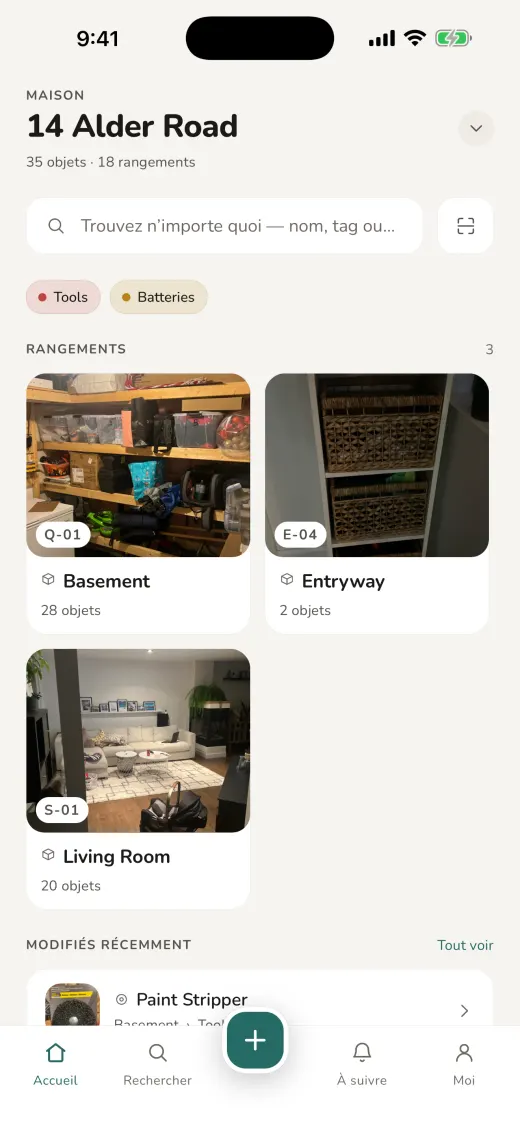
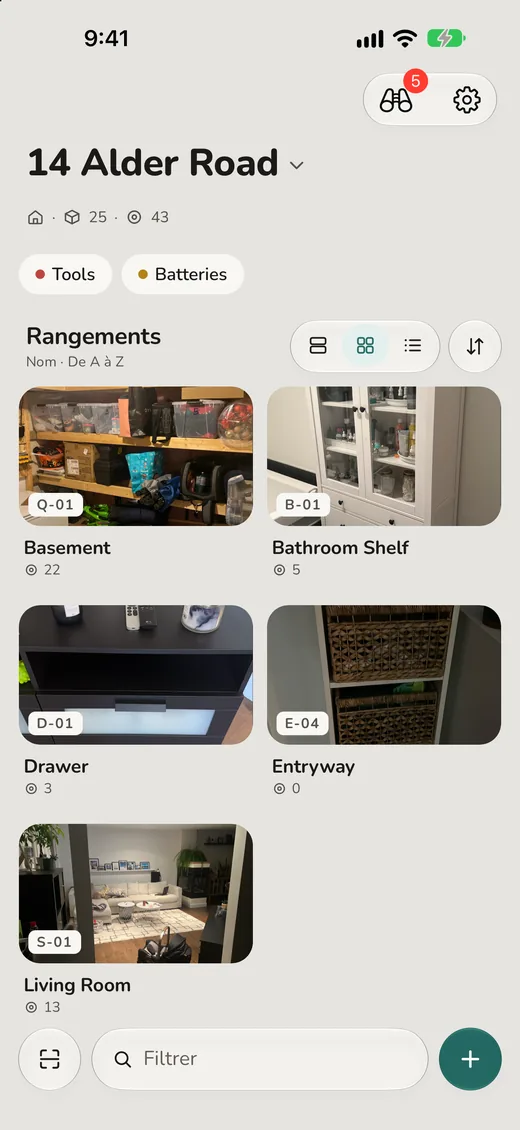
Show Cataloc's redesign in the screenshot strip, with iPhone Duo
The strip on the EN, PT and FR pages now shows the redesigned app in each
page's own language: Home, a place, nesting, marking a shelf, a thing's
page, search, Watch, the label, the insurance report and Settings, plus
the open iPhone Duo in Apple's own bezel. The report's PDF page stays.

diff --git a/public/cataloc/accueil/index.html b/public/cataloc/accueil/index.html
@@ -21,7 +21,7 @@
 <link rel="icon" href="/cataloc/icon.png">
 <link rel="preconnect" href="https://fonts.gstatic.com" crossorigin>
 <link rel="stylesheet" href="https://fonts.googleapis.com/css2?family=Nunito:wght@700;800&family=IBM+Plex+Sans:wght@400;500&display=swap">
-<link rel="stylesheet" href="/cataloc/styles.css?v=4">
+<link rel="stylesheet" href="/cataloc/styles.css?v=5">
 <script src="/cataloc/theme.js?v=4"></script>
 </head>
 <body>
@@ -65,19 +65,19 @@
   <section>
     <h2>Un aperçu</h2>
     <ul class="shots">
-      <li><a class="zoom" href="/cataloc/screens/fr/full/01-home.webp"><img src="/cataloc/screens/fr/01-home.webp" width="520" height="1130" loading="lazy" alt="L'accueil du foyer 14 Alder Road : une barre de recherche, des étiquettes, et une grille d'emplacements, chacun avec sa photo et un code court comme Q-01."></a><p><b>Votre maison d'un coup d'œil.</b> Chaque pièce en photo, chaque emplacement avec un code que vous pouvez écrire dessus.</p></li>
-      <li><a class="zoom" href="/cataloc/screens/fr/full/05-search.webp"><img src="/cataloc/screens/fr/05-search.webp" width="520" height="1130" loading="lazy" alt="Une recherche de « st » qui renvoie six objets, chacun avec le chemin complet vers l'endroit où il est rangé."></a><p><b>Tapez trois lettres</b> et vous savez où c'est, pas seulement que ça existe.</p></li>
-      <li><a class="zoom" href="/cataloc/screens/en/full/13-details.webp"><img src="/cataloc/screens/en/13-details.webp" width="520" height="1130" loading="lazy" alt="L'objet Drill Driver : photo marquée « Prise le 5 sept. 2026 », quantité, étiquettes, emplacement, date d'expiration et détails pour l'assurance — valeur 129 $ US, achetée le 14 mars 2024, DeWalt DCD777, numéro de série et photo du reçu. Capture en anglais."></a><p><b>Chaque chose a sa page :</b> une photo, une quantité, des étiquettes, un emplacement, et la valeur, le reçu et le numéro de série qu'une réclamation demande.</p></li>
-      <li><a class="zoom" href="/cataloc/screens/en/full/11-mark.webp"><img src="/cataloc/screens/en/11-mark.webp" width="520" height="1130" loading="lazy" alt="Une seule photo d'une étagère au sous-sol avec sept cadres numérotés tracés autour des objets, et la bande des sept recadrages en dessous. Capture en anglais."></a><p><b>Une tablette en une photo.</b> Touchez chaque chose, et chaque cadre devient sa propre fiche, avec son propre recadrage.</p></li>
-      <li><a class="zoom" href="/cataloc/screens/en/full/12-mark-names.webp"><img src="/cataloc/screens/en/12-mark-names.webp" width="520" height="1130" loading="lazy" alt="Nommer les sept choses marquées, chacune avec un choix Objet ou Contenant, et un bouton « Ajouter 7 ». Capture en anglais."></a><p><b>Les bacs et ce qui est à côté,</b> à partir d'une seule photo. Vous tracez les cadres; nommez chacun vous-même, ou touchez l'étincelle pour une suggestion calculée sur votre téléphone.</p></li>
-      <li><a class="zoom" href="/cataloc/screens/fr/full/06-watch.webp"><img src="/cataloc/screens/fr/06-watch.webp" width="520" height="1130" loading="lazy" alt="L'onglet À surveiller : un prêt en retard, quatre choses qui expirent bientôt, les prêts avec l'emprunteur et la date de retour."></a><p><b>Un seul onglet</b> pour ce qui est prêté et ce qui va bientôt expirer.</p></li>
-      <li><a class="zoom" href="/cataloc/screens/en/full/16-reminders.webp"><img src="/cataloc/screens/en/16-reminders.webp" width="520" height="1130" loading="lazy" alt="Réglages des notifications : prêts à rendre, la veille, et dates d'expiration, sept jours avant, chacun avec un délai réglable. Capture en anglais."></a><p><b>Un rappel la veille</b> du retour de la perceuse, ou une semaine avant que les piles expirent. Désactivé à moins que vous le vouliez.</p></li>
-      <li><a class="zoom" href="/cataloc/screens/en/full/14-report.webp"><img src="/cataloc/screens/en/14-report.webp" width="520" height="1130" loading="lazy" alt="Le rapport d'assurance : 35 choses d'une valeur de 1 328,88 $ US, des jauges pour celles qui ont une photo, une photo datée, une valeur et un reçu, et la liste de celles sans valeur. Capture en anglais."></a><p><b>Voyez où vous en êtes</b> avant d'en avoir besoin : ce qui est photographié, daté et chiffré, et ce qui ne l'est pas encore.</p></li>
+      <li><a class="zoom" href="/cataloc/screens/fr/full/01-home.webp"><img src="/cataloc/screens/fr/01-home.webp" width="520" height="1130" loading="lazy" alt="L&#x27;accueil du foyer 14 Alder Road : les étiquettes, le choix d&#x27;affichage et une grille d&#x27;emplacements, chacun avec sa photo et un code court comme Q-01, avec À suivre et Réglages dans le coin."></a><p><b>Votre maison d'un coup d'œil.</b> Chaque pièce en photo, chaque emplacement avec un code que l'on peut écrire dessus.</p></li>
+      <li><a class="zoom" href="/cataloc/screens/fr/full/02-place.webp"><img src="/cataloc/screens/fr/02-place.webp" width="520" height="1130" loading="lazy" alt="Le Tool Panel : sa photo, le chemin 14 Alder Road › Basement, le code Q-04 et les treize outils qu&#x27;il porte."></a><p><b>Photographiez une tablette,</b> puis nommez ce qu'il y a dessus. Chaque emplacement montre ce qu'il contient.</p></li>
+      <li><a class="zoom" href="/cataloc/screens/fr/full/03-nesting.webp"><img src="/cataloc/screens/fr/03-nesting.webp" width="520" height="1130" loading="lazy" alt="Transparent Box 1, dans Shelf, dans Basement : le fil d&#x27;Ariane montre chaque étape, au-dessus de son contenu de six objets."></a><p><b>Une boîte dans un bac sur une tablette,</b> aussi profond que la réalité. Le fil d'Ariane garde l'adresse complète.</p></li>
+      <li><a class="zoom" href="/cataloc/screens/fr/full/04-mark.webp"><img src="/cataloc/screens/fr/04-mark.webp" width="520" height="1130" loading="lazy" alt="Une seule photo du panneau à outils avec onze cadres numérotés tracés autour des objets, la perceuse sélectionnée et son recadrage en dessous."></a><p><b>Une tablette en une photo.</b> Touchez chaque chose et chaque cadre devient une entrée avec son propre recadrage. Nommez-les vous-même, ou touchez l'étincelle pour une suggestion calculée sur votre téléphone.</p></li>
+      <li><a class="zoom" href="/cataloc/screens/fr/full/05-item.webp"><img src="/cataloc/screens/fr/05-item.webp" width="520" height="1130" loading="lazy" alt="Le Drill Driver : photo datée, étiquettes, emplacement, quantité, date d&#x27;expiration et Plus de détails avec 129,00 $ US et un reçu."></a><p><b>Chaque chose a sa page :</b> une photo, une quantité, des étiquettes, un emplacement, et la valeur, le reçu et le numéro de série qu'une réclamation demande.</p></li>
+      <li class="device"><a class="zoom" href="/cataloc/screens/fr/full/duo-home.webp"><img src="/cataloc/screens/fr/duo-home.webp" width="880" height="639" loading="lazy" alt="iPhone Duo ouvert : l&#x27;accueil du foyer 14 Alder Road sur l&#x27;écran intérieur, avec Rechercher, Scanner, Ajouter, À suivre et Réglages dans la barre du système, sur le côté."></a><p><b>Sur iPhone Duo,</b> les barres se placent sur le côté et les emplacements occupent tout l'écran.</p></li>
+      <li class="device"><a class="zoom" href="/cataloc/screens/fr/full/duo-item.webp"><img src="/cataloc/screens/fr/duo-item.webp" width="880" height="639" loading="lazy" alt="iPhone Duo ouvert : la photo du Drill Driver à côté de ses détails, assurance comprise."></a><p><b>Ouvrez le Duo</b> et la photo de chaque chose s'affiche à côté de sa page.</p></li>
+      <li><a class="zoom" href="/cataloc/screens/fr/full/06-search.webp"><img src="/cataloc/screens/fr/06-search.webp" width="520" height="1130" loading="lazy" alt="L&#x27;accueil filtré par « batt » : les trois emplacements qui contiennent des piles, puis dix résultats, chacun avec le chemin complet vers l&#x27;endroit où il est rangé."></a><p><b>Tapez quatre lettres</b> et vous savez où c'est, pas seulement que ça existe.</p></li>
+      <li><a class="zoom" href="/cataloc/screens/fr/full/07-watch.webp"><img src="/cataloc/screens/fr/07-watch.webp" width="520" height="1130" loading="lazy" alt="À suivre : un prêt en retard et quatre choses qui expirent bientôt, chaque prêt avec son emprunteur et sa date de retour."></a><p><b>Un seul écran,</b> à une touche de l'accueil, pour ce qui est prêté et ce qui va bientôt expirer. Les rappels, si vous en voulez, sont dans Réglages.</p></li>
+      <li><a class="zoom" href="/cataloc/screens/fr/full/08-label.webp"><img src="/cataloc/screens/fr/08-label.webp" width="520" height="1130" loading="lazy" alt="L&#x27;aperçu d&#x27;une étiquette avec un code QR, le code court Q-04 et le chemin du contenant, avec ce qui figure sur l&#x27;étiquette et sa taille."></a><p><b>Imprimez une étiquette.</b> Balayez-la pour ouvrir la boîte, ou tapez le code si l'appareil photo n'y arrive pas.</p></li>
+      <li><a class="zoom" href="/cataloc/screens/fr/full/09-report.webp"><img src="/cataloc/screens/fr/09-report.webp" width="520" height="1130" loading="lazy" alt="Le rapport d&#x27;assurance : 43 choses d&#x27;une valeur de 1 328,88 $ US, des jauges pour celles qui ont une photo, une photo datée, une valeur et un reçu, et celles qui n&#x27;ont pas encore de valeur."></a><p><b>Voyez où vous en êtes</b> avant d'en avoir besoin : ce qui est photographié, daté et chiffré, et ce qui ne l'est pas encore.</p></li>
       <li class="page"><a class="zoom" href="/cataloc/screens/en/full/15-report-page.webp"><img src="/cataloc/screens/en/15-report-page.webp" width="640" height="828" loading="lazy" alt="La première page du rapport d'assurance en PDF : un inventaire aux lignes numérotées, avec photos, valeurs et sous-totaux par pièce. Capture en anglais."></a><p><b>Un seul PDF qu'un assureur peut lire</b> sans l'application. Imprimez-le, envoyez-le, rangez-le avec votre police.</p></li>
-      <li><a class="zoom" href="/cataloc/screens/fr/full/07-label.webp"><img src="/cataloc/screens/fr/07-label.webp" width="520" height="1130" loading="lazy" alt="L'aperçu d'une étiquette avec un code QR, le code court Q-04 et le chemin du contenant, avec les options de taille et d'impression."></a><p><b>Imprimez une étiquette.</b> Balayez-la pour ouvrir la boîte, ou tapez le code si l'appareil photo n'y arrive pas.</p></li>
-      <li><a class="zoom" href="/cataloc/screens/en/full/17-change-type.webp"><img src="/cataloc/screens/en/17-change-type.webp" width="520" height="1130" loading="lazy" alt="Le menu d'options de Drill Driver : Renommer, Changer la photo, Modifier les étiquettes, Déplacer, Transformer en contenant, Copier le chemin, Supprimer. Capture en anglais."></a><p><b>Le coffre à outils contient des choses, finalement?</b> Faites-en un contenant. Photo, étiquettes, historique et étiquette imprimée restent.</p></li>
-      <li><a class="zoom" href="/cataloc/screens/fr/full/08-me.webp"><img src="/cataloc/screens/fr/08-me.webp" width="520" height="1130" loading="lazy" alt="L'onglet Moi : la jauge du forfait, où vivent vos données, la synchronisation et les foyers."></a><p><b>Aucun compte.</b> Tout est sur ce téléphone.</p></li>
-      <li><a class="zoom" href="/cataloc/screens/fr/full/09-assistant.webp"><img src="/cataloc/screens/fr/09-assistant.webp" width="520" height="1130" loading="lazy" alt="Réglages de l'assistant : Trouver mes affaires, Le laisser ajouter des choses, et Tout retirer de la recherche."></a><p><b>Demandez à Siri ou à Spotlight.</b> Désactivé tant que vous n'avez pas dit oui.</p></li>
+      <li><a class="zoom" href="/cataloc/screens/fr/full/10-settings.webp"><img src="/cataloc/screens/fr/10-settings.webp" width="520" height="1130" loading="lazy" alt="Réglages : la formule gratuite à 68 objets sur 200, notifications, assistant, apparence, langue, dossier partagé, stockage et sauvegarde."></a><p><b>Aucun compte.</b> Tout est sur ce téléphone, et Réglages montre où.</p></li>
     </ul>
   </section>
 

diff --git a/public/cataloc/pt/index.html b/public/cataloc/pt/index.html
@@ -21,7 +21,7 @@
 <link rel="icon" href="/cataloc/icon.png">
 <link rel="preconnect" href="https://fonts.gstatic.com" crossorigin>
 <link rel="stylesheet" href="https://fonts.googleapis.com/css2?family=Nunito:wght@700;800&family=IBM+Plex+Sans:wght@400;500&display=swap">
-<link rel="stylesheet" href="/cataloc/styles.css?v=4">
+<link rel="stylesheet" href="/cataloc/styles.css?v=5">
 <script src="/cataloc/theme.js?v=4"></script>
 </head>
 <body>
@@ -64,19 +64,19 @@
   <section>
     <h2>Uma volta pelo app</h2>
     <ul class="shots">
-      <li><a class="zoom" href="/cataloc/screens/pt/full/01-home.webp"><img src="/cataloc/screens/pt/01-home.webp" width="520" height="1130" loading="lazy" alt="O início da casa 14 Alder Road: uma barra de busca, tags e uma grade de lugares, cada um com foto e um código curto como Q-01."></a><p><b>Sua casa de relance.</b> Cada cômodo em foto, cada lugar com um código que dá para escrever nele.</p></li>
-      <li><a class="zoom" href="/cataloc/screens/pt/full/05-search.webp"><img src="/cataloc/screens/pt/05-search.webp" width="520" height="1130" loading="lazy" alt="Uma busca por “st” que traz seis itens, cada um com o caminho completo até onde está guardado."></a><p><b>Digite três letras</b> e você descobre onde está, não só que existe.</p></li>
-      <li><a class="zoom" href="/cataloc/screens/en/full/13-details.webp"><img src="/cataloc/screens/en/13-details.webp" width="520" height="1130" loading="lazy" alt="O item Drill Driver: foto marcada “tirada em 5 set. 2026”, quantidade, tags, lugar, data de validade e dados para o seguro — valor US$ 129, comprada em 14 mar. 2024, DeWalt DCD777, número de série e foto da nota fiscal. Tela em inglês."></a><p><b>Toda coisa tem a própria página:</b> foto, quantidade, tags, lugar, e o valor, a nota fiscal e o número de série que o seguro pede.</p></li>
-      <li><a class="zoom" href="/cataloc/screens/en/full/11-mark.webp"><img src="/cataloc/screens/en/11-mark.webp" width="520" height="1130" loading="lazy" alt="Uma única foto de uma estante no porão com sete quadrados numerados em volta das coisas, e a fileira dos sete recortes embaixo. Tela em inglês."></a><p><b>Uma prateleira em uma foto.</b> Toque em cada coisa, e cada quadrado vira um registro com o próprio recorte.</p></li>
-      <li><a class="zoom" href="/cataloc/screens/en/full/12-mark-names.webp"><img src="/cataloc/screens/en/12-mark-names.webp" width="520" height="1130" loading="lazy" alt="Dando nome às sete coisas marcadas, cada uma com a escolha entre item e lugar, e um botão “Adicionar 7”. Tela em inglês."></a><p><b>As caixas e o que está do lado delas,</b> a partir de uma foto só. Você marca os quadrados; dê o nome você mesmo, ou toque na estrelinha para uma sugestão feita no seu celular.</p></li>
-      <li><a class="zoom" href="/cataloc/screens/pt/full/06-watch.webp"><img src="/cataloc/screens/pt/06-watch.webp" width="520" height="1130" loading="lazy" alt="A aba De olho: um empréstimo atrasado, quatro coisas vencendo, empréstimos com quem pegou e a data de devolução."></a><p><b>Uma aba só</b> para o que está emprestado e o que está para vencer.</p></li>
-      <li><a class="zoom" href="/cataloc/screens/en/full/16-reminders.webp"><img src="/cataloc/screens/en/16-reminders.webp" width="520" height="1130" loading="lazy" alt="Ajustes de notificações: empréstimos a vencer, um dia antes, e datas de validade, sete dias antes, cada um com a antecedência ajustável. Tela em inglês."></a><p><b>Um aviso na véspera</b> de a furadeira voltar, ou uma semana antes de as pilhas vencerem. Desligado, a não ser que você queira.</p></li>
-      <li><a class="zoom" href="/cataloc/screens/en/full/14-report.webp"><img src="/cataloc/screens/en/14-report.webp" width="520" height="1130" loading="lazy" alt="O relatório para o seguro: 35 coisas somando US$ 1.328,88, medidores de quantas têm foto, foto com data, valor e nota fiscal, e a lista das que estão sem valor. Tela em inglês."></a><p><b>Veja o quanto você está pronto</b> antes de precisar: o que tem foto, data e preço, e o que ainda não tem.</p></li>
+      <li><a class="zoom" href="/cataloc/screens/pt/full/01-home.webp"><img src="/cataloc/screens/pt/01-home.webp" width="520" height="1130" loading="lazy" alt="O início da casa 14 Alder Road: tags, a troca de visualização e uma grade de lugares, cada um com foto e um código curto como Q-01, com De olho e Ajustes no canto."></a><p><b>Sua casa de relance.</b> Cada cômodo em foto, cada lugar com um código que dá para escrever nele.</p></li>
+      <li><a class="zoom" href="/cataloc/screens/pt/full/02-place.webp"><img src="/cataloc/screens/pt/02-place.webp" width="520" height="1130" loading="lazy" alt="O Tool Panel: a foto, o caminho 14 Alder Road › Basement, o código Q-04 e as treze ferramentas nele."></a><p><b>Fotografe a prateleira</b> e dê nome ao que está nela. Cada lugar mostra o que guarda.</p></li>
+      <li><a class="zoom" href="/cataloc/screens/pt/full/03-nesting.webp"><img src="/cataloc/screens/pt/03-nesting.webp" width="520" height="1130" loading="lazy" alt="Transparent Box 1, dentro de Shelf, dentro de Basement: o caminho mostra cada passo, acima dos seis itens dentro."></a><p><b>Uma caixa num caixote numa prateleira,</b> sem limite de profundidade. O caminho guarda o endereço inteiro.</p></li>
+      <li><a class="zoom" href="/cataloc/screens/pt/full/04-mark.webp"><img src="/cataloc/screens/pt/04-mark.webp" width="520" height="1130" loading="lazy" alt="Uma foto do painel de ferramentas com onze quadrados numerados em volta das coisas, a furadeira selecionada e o recorte dela embaixo."></a><p><b>Uma prateleira em uma foto.</b> Toque em cada coisa e cada quadrado vira um registro com o próprio recorte. Dê o nome você mesmo, ou toque no brilho para uma sugestão feita no seu celular.</p></li>
+      <li><a class="zoom" href="/cataloc/screens/pt/full/05-item.webp"><img src="/cataloc/screens/pt/05-item.webp" width="520" height="1130" loading="lazy" alt="O Drill Driver: foto marcada com a data, tags, onde está, quantidade, validade e Mais detalhes com US$ 129,00 e a nota fiscal."></a><p><b>Cada coisa tem a própria página:</b> foto, quantidade, tags, lugar, e o valor, a nota e o número de série que o seguro pede.</p></li>
+      <li class="device"><a class="zoom" href="/cataloc/screens/pt/full/duo-home.webp"><img src="/cataloc/screens/pt/duo-home.webp" width="880" height="639" loading="lazy" alt="iPhone Duo aberto: o início da casa 14 Alder Road na tela interna, com Buscar, Escanear, Adicionar, De olho e Ajustes na barra do sistema, na lateral."></a><p><b>No iPhone Duo,</b> as barras ficam na lateral e os lugares ocupam a tela inteira.</p></li>
+      <li class="device"><a class="zoom" href="/cataloc/screens/pt/full/duo-item.webp"><img src="/cataloc/screens/pt/duo-item.webp" width="880" height="639" loading="lazy" alt="iPhone Duo aberto: a foto do Drill Driver ao lado dos detalhes, com os dados do seguro."></a><p><b>Abra o Duo</b> e a foto de cada coisa fica ao lado da página dela.</p></li>
+      <li><a class="zoom" href="/cataloc/screens/pt/full/06-search.webp"><img src="/cataloc/screens/pt/06-search.webp" width="520" height="1130" loading="lazy" alt="O início filtrado por “batt”: os três lugares com pilhas e dez resultados, cada um com o caminho completo até onde está guardado."></a><p><b>Digite quatro letras</b> e você descobre onde está, não só que existe.</p></li>
+      <li><a class="zoom" href="/cataloc/screens/pt/full/07-watch.webp"><img src="/cataloc/screens/pt/07-watch.webp" width="520" height="1130" loading="lazy" alt="De olho: um empréstimo atrasado e quatro coisas vencendo, cada empréstimo com quem pegou e a data de devolução."></a><p><b>Uma tela só,</b> a um toque do início, para o que está emprestado e o que está para vencer. Lembretes, se quiser, ficam em Ajustes.</p></li>
+      <li><a class="zoom" href="/cataloc/screens/pt/full/08-label.webp"><img src="/cataloc/screens/pt/08-label.webp" width="520" height="1130" loading="lazy" alt="A prévia de uma etiqueta com QR, o código curto Q-04 e o caminho do lugar, com o que vai na etiqueta e o tamanho."></a><p><b>Imprima uma etiqueta.</b> Leia o QR para abrir a caixa, ou digite o código se a câmera não conseguir.</p></li>
+      <li><a class="zoom" href="/cataloc/screens/pt/full/09-report.webp"><img src="/cataloc/screens/pt/09-report.webp" width="520" height="1130" loading="lazy" alt="O relatório para o seguro: 43 coisas somando US$ 1.328,88, medidores de quantas têm foto, foto com data, valor e nota fiscal, e as que ainda estão sem valor."></a><p><b>Veja o quanto você está pronto</b> antes de precisar: o que tem foto, data e valor, e o que ainda não tem.</p></li>
       <li class="page"><a class="zoom" href="/cataloc/screens/en/full/15-report-page.webp"><img src="/cataloc/screens/en/15-report-page.webp" width="640" height="828" loading="lazy" alt="A primeira página do relatório para o seguro em PDF: um inventário com linhas numeradas, fotos, valores e subtotais por cômodo. Em inglês."></a><p><b>Um PDF que a seguradora lê</b> sem o app. Imprima, mande por e-mail, guarde junto com a apólice.</p></li>
-      <li><a class="zoom" href="/cataloc/screens/pt/full/07-label.webp"><img src="/cataloc/screens/pt/07-label.webp" width="520" height="1130" loading="lazy" alt="A prévia de uma etiqueta com QR, o código curto Q-04 e o caminho do lugar, com opções de tamanho e impressão."></a><p><b>Imprima uma etiqueta.</b> Leia o QR para abrir a caixa, ou digite o código se a câmera não conseguir.</p></li>
-      <li><a class="zoom" href="/cataloc/screens/en/full/17-change-type.webp"><img src="/cataloc/screens/en/17-change-type.webp" width="520" height="1130" loading="lazy" alt="O menu de opções do Drill Driver: Renomear, Trocar foto, Editar tags, Mover, Transformar em lugar, Copiar caminho, Apagar. Tela em inglês."></a><p><b>A caixa de ferramentas guarda coisas, afinal?</b> Transforme em lugar. Foto, tags, histórico e etiqueta continuam.</p></li>
-      <li><a class="zoom" href="/cataloc/screens/pt/full/08-me.webp"><img src="/cataloc/screens/pt/08-me.webp" width="520" height="1130" loading="lazy" alt="A aba Você: o medidor do plano, onde ficam seus dados, sincronização e casas."></a><p><b>Sem conta.</b> Está tudo neste celular.</p></li>
-      <li><a class="zoom" href="/cataloc/screens/pt/full/09-assistant.webp"><img src="/cataloc/screens/pt/09-assistant.webp" width="520" height="1130" loading="lazy" alt="Ajustes do assistente: Achar minhas coisas, Deixar que ele adicione e Tirar tudo da busca."></a><p><b>Pergunte à Siri ou ao Spotlight.</b> Desligado até você dizer sim.</p></li>
+      <li><a class="zoom" href="/cataloc/screens/pt/full/10-settings.webp"><img src="/cataloc/screens/pt/10-settings.webp" width="520" height="1130" loading="lazy" alt="Ajustes: o plano grátis em 68 de 200 coisas, notificações, assistente, aparência, idioma, pasta compartilhada, armazenamento e backup."></a><p><b>Sem conta.</b> Está tudo neste celular, e Ajustes mostra onde.</p></li>
     </ul>
   </section>
 

diff --git a/public/cataloc/index.html b/public/cataloc/index.html
@@ -21,7 +21,7 @@
 <link rel="icon" href="icon.png">
 <link rel="preconnect" href="https://fonts.gstatic.com" crossorigin>
 <link rel="stylesheet" href="https://fonts.googleapis.com/css2?family=Nunito:wght@700;800&family=IBM+Plex+Sans:wght@400;500&display=swap">
-<link rel="stylesheet" href="styles.css?v=4">
+<link rel="stylesheet" href="styles.css?v=5">
 <script src="theme.js?v=4"></script>
 </head>
 <body>
@@ -64,19 +64,19 @@
   <section>
     <h2>A look around</h2>
     <ul class="shots">
-      <li><a class="zoom" href="screens/en/full/01-home.webp"><img src="screens/en/01-home.webp" width="520" height="1130" loading="lazy" alt="Home for the household 14 Alder Road: a search bar, tag chips, and a grid of places, each with a photo and a short code such as Q-01."></a><p><b>Your home at a glance.</b> Every room as a photo, every place with a code you can write on it.</p></li>
-      <li><a class="zoom" href="screens/en/full/05-search.webp"><img src="screens/en/05-search.webp" width="520" height="1130" loading="lazy" alt="Search for “st” returning six items, each with the full path to where it is kept."></a><p><b>Type three letters</b> and you get where it is, not just that it exists.</p></li>
-      <li><a class="zoom" href="screens/en/full/13-details.webp"><img src="screens/en/13-details.webp" width="520" height="1130" loading="lazy" alt="The Drill Driver item: photo marked “Taken 5 Sep 2026”, quantity, tags, place, expiration date, and insurance details — value US$129, bought 14 March 2024, DeWalt DCD777, serial number and a receipt photo."></a><p><b>Every thing has its own page:</b> a photo, a count, tags, a place, and the value, receipt and serial a claim asks for.</p></li>
-      <li><a class="zoom" href="screens/en/full/11-mark.webp"><img src="screens/en/11-mark.webp" width="520" height="1130" loading="lazy" alt="One photograph of a basement shelf with seven numbered boxes drawn around things, and a strip of the seven crops below."></a><p><b>A shelf in one photo.</b> Tap each thing on it, and every box becomes its own entry with its own crop.</p></li>
-      <li><a class="zoom" href="screens/en/full/12-mark-names.webp"><img src="screens/en/12-mark-names.webp" width="520" height="1130" loading="lazy" alt="Naming the seven marked things, each with an Item or Container choice, and an “Add 7” button."></a><p><b>Bins and the things beside them,</b> from one picture. You draw the boxes; name each one yourself, or tap the sparkle for a suggestion worked out on your phone.</p></li>
-      <li><a class="zoom" href="screens/en/full/06-watch.webp"><img src="screens/en/06-watch.webp" width="520" height="1130" loading="lazy" alt="The Watch tab: one loan overdue, four things expiring soon, loans with borrower and due date."></a><p><b>One tab</b> for what's lent out and what's about to go off.</p></li>
-      <li><a class="zoom" href="screens/en/full/16-reminders.webp"><img src="screens/en/16-reminders.webp" width="520" height="1130" loading="lazy" alt="Notification settings: loans coming due, the day before, and expiration dates, seven days before, each with an adjustable lead."></a><p><b>A nudge the day before</b> the drill is due back, or a week before the batteries expire. Off unless you want it.</p></li>
-      <li><a class="zoom" href="screens/en/full/14-report.webp"><img src="screens/en/14-report.webp" width="520" height="1130" loading="lazy" alt="Insurance report: 35 things worth US$1,328.88, meters for how many have a photo, a dated photo, a value and a receipt, and a list of things missing a value."></a><p><b>See how ready you are</b> before you need to be: what's photographed, dated and priced, and what isn't yet.</p></li>
+      <li><a class="zoom" href="screens/en/full/01-home.webp"><img src="screens/en/01-home.webp" width="520" height="1130" loading="lazy" alt="Home for 14 Alder Road: tag chips, the view switch and a grid of places, each with a photo and a short code such as Q-01, with Watch and Settings in the corner."></a><p><b>Your home at a glance.</b> Every room as a photo, every place with a code you can write on it.</p></li>
+      <li><a class="zoom" href="screens/en/full/02-place.webp"><img src="screens/en/02-place.webp" width="520" height="1130" loading="lazy" alt="The Tool Panel: its photo, the path 14 Alder Road › Basement, the code Q-04 and the thirteen tools on it."></a><p><b>Photograph a shelf,</b> then name what is on it. Every place shows what it holds.</p></li>
+      <li><a class="zoom" href="screens/en/full/03-nesting.webp"><img src="screens/en/03-nesting.webp" width="520" height="1130" loading="lazy" alt="Transparent Box 1, inside Shelf, inside Basement: the breadcrumb shows every step, above its six contents."></a><p><b>A box in a crate on a shelf,</b> as deep as reality goes. The breadcrumb keeps the whole address.</p></li>
+      <li><a class="zoom" href="screens/en/full/04-mark.webp"><img src="screens/en/04-mark.webp" width="520" height="1130" loading="lazy" alt="One photograph of the tool panel with eleven numbered boxes drawn around things, the drill selected and its crop shown below."></a><p><b>A shelf in one photo.</b> Tap each thing on it and every box becomes its own entry with its own crop. Name each one yourself, or tap the sparkle for a suggestion worked out on your phone.</p></li>
+      <li><a class="zoom" href="screens/en/full/05-item.webp"><img src="screens/en/05-item.webp" width="520" height="1130" loading="lazy" alt="The Drill Driver: photo marked “Taken 5 Sep 2026”, tags, where it is, how many, expiration date, and More details with US$129.00 and a receipt."></a><p><b>Every thing has its own page:</b> a photo, a count, tags, a place, and the value, receipt and serial a claim asks for.</p></li>
+      <li class="device"><a class="zoom" href="screens/en/full/duo-home.webp"><img src="screens/en/duo-home.webp" width="880" height="639" loading="lazy" alt="iPhone Duo, open: Home for 14 Alder Road across the inner display, with Search, Scan, Add, Watch and Settings standing in the system&#x27;s bar down the side."></a><p><b>On iPhone Duo,</b> the bars stand up the side and the places spread across the whole display.</p></li>
+      <li class="device"><a class="zoom" href="screens/en/full/duo-item.webp"><img src="screens/en/duo-item.webp" width="880" height="639" loading="lazy" alt="iPhone Duo, open: the Drill Driver&#x27;s photograph beside its details, insurance included."></a><p><b>Open the Duo</b> and a thing's photograph sits beside its page.</p></li>
+      <li><a class="zoom" href="screens/en/full/06-search.webp"><img src="screens/en/06-search.webp" width="520" height="1130" loading="lazy" alt="Home filtered by “batt”: the three places holding batteries, then ten matches, each with the full path to where it is kept."></a><p><b>Type four letters</b> and you get where it is, not just that it exists.</p></li>
+      <li><a class="zoom" href="screens/en/full/07-watch.webp"><img src="screens/en/07-watch.webp" width="520" height="1130" loading="lazy" alt="Watch: one loan overdue and four things expiring soon, each loan with its borrower and due date."></a><p><b>One screen,</b> a tap from Home, for what's lent out and what's about to go off. Reminders, if you want them, are in Settings.</p></li>
+      <li><a class="zoom" href="screens/en/full/08-label.webp"><img src="screens/en/08-label.webp" width="520" height="1130" loading="lazy" alt="Label preview with a QR code, the short code Q-04 and the container&#x27;s path, with what goes on the sticker and its size."></a><p><b>Print a sticker.</b> Scan it to open the box, or type the code if the camera can't.</p></li>
+      <li><a class="zoom" href="screens/en/full/09-report.webp"><img src="screens/en/09-report.webp" width="520" height="1130" loading="lazy" alt="Insurance report: 43 things worth US$1,328.88, meters for how many have a photo, a dated photo, a value and a receipt, and the things still missing a value."></a><p><b>See how ready you are</b> before you need to be: what's photographed, dated and priced, and what isn't yet.</p></li>
       <li class="page"><a class="zoom" href="screens/en/full/15-report-page.webp"><img src="screens/en/15-report-page.webp" width="640" height="828" loading="lazy" alt="Page one of the insurance report PDF: a contents inventory with numbered rows, photos, values and subtotals by room."></a><p><b>One PDF an insurer can read</b> without the app. Print it, email it, keep it with your policy.</p></li>
-      <li><a class="zoom" href="screens/en/full/07-label.webp"><img src="screens/en/07-label.webp" width="520" height="1130" loading="lazy" alt="Label preview with a QR code, the short code Q-04 and the container's path, with size and print options."></a><p><b>Print a sticker.</b> Scan it to open the box, or type the code if the camera can't.</p></li>
-      <li><a class="zoom" href="screens/en/full/17-change-type.webp"><img src="screens/en/17-change-type.webp" width="520" height="1130" loading="lazy" alt="The options sheet for Drill Driver: Rename, Change photo, Edit tags, Move, Turn into a container, Copy path, Delete."></a><p><b>Turned out the toolbox holds things?</b> Make it a container. Photo, tags, history and label all stay.</p></li>
-      <li><a class="zoom" href="screens/en/full/08-me.webp"><img src="screens/en/08-me.webp" width="520" height="1130" loading="lazy" alt="The Me tab: plan meter, where your data lives, sync and households."></a><p><b>No account.</b> Everything is on this phone.</p></li>
-      <li><a class="zoom" href="screens/en/full/09-assistant.webp"><img src="screens/en/09-assistant.webp" width="520" height="1130" loading="lazy" alt="Assistant settings: Find my things, Let it add things, and Remove everything from search."></a><p><b>Ask Siri or Spotlight.</b> Off until you say yes.</p></li>
+      <li><a class="zoom" href="screens/en/full/10-settings.webp"><img src="screens/en/10-settings.webp" width="520" height="1130" loading="lazy" alt="Settings: the free plan at 68 of 200 things, notifications, assistant, appearance, language, the shared folder, storage and backup."></a><p><b>No account.</b> Everything is on this phone, and Settings shows where.</p></li>
     </ul>
   </section>
 

diff --git a/public/cataloc/styles.css b/public/cataloc/styles.css
@@ -191,6 +191,12 @@ section > p { color: var(--ink2); max-width: 36em; }
   background: var(--surface);
 }
 .shots li.page img { border-radius: 6px; }
+/* Apple's own iPhone Duo bezel, drawn whole: no card, border or shadow around
+   a product image, which Apple's marketing guidelines rule out. */
+.shots li.device { flex-basis: 420px; }
+.shots li.device img { border: 0; border-radius: 0; box-shadow: none; background: none; }
+.shots li.device a.zoom { border-radius: 0; }
+@media (max-width: 520px) { .shots li.device { flex-basis: 300px; } }
 .shots p { margin: 10px 2px 0; font-size: 15px; line-height: 1.45; color: var(--ink2); }
 .shots p b { color: var(--ink); font-weight: 500; }
 .shots-head { display: flex; align-items: center; gap: 12px; }
